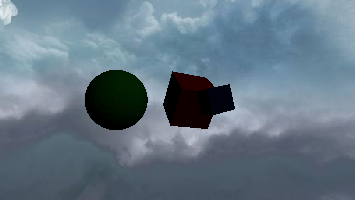
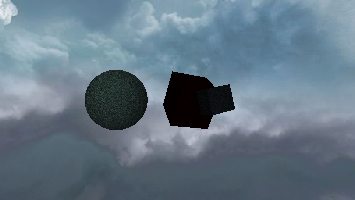
Multiprocessing for pathpracing

Changed region(s): [[0.2169, 0.33, 0.4338, 0.66], [0.4648, 0.36, 0.6197, 0.45]]

diff --git a/src/renders/pathtracing/pathtrace.py b/src/renders/pathtracing/pathtrace.py
@@ -20,6 +20,7 @@ See:
 https://en.wikipedia.org/wiki/Path_tracing
 """
 
+
 def hemisphere_mapping(point: np.array, normal: np.array) -> np.array:
     if np.dot(point, normal) < 0:
         return -point
@@ -39,12 +40,11 @@ def random_three_vector():
     theta = 2 * np.pi * u
     phi = np.arccos(2 * v - 1)
 
-    x = np.sin( theta) * np.cos( phi )
-    y = np.sin( theta) * np.sin( phi )
-    z = np.cos( theta )
+    x = np.sin(theta) * np.cos(phi)
+    y = np.sin(theta) * np.sin(phi)
+    z = np.cos(theta)
 
     return np.array([x, y, z])
-
 
 
 def path_trace(procedure: MainProcedure) -> Bitmap:
@@ -62,26 +62,24 @@ def path_trace(procedure: MainProcedure) -> Bitmap:
     pool = Pool(os.cpu_count())
     tasks = []
     rays = procedure.scene.camera.generate_initial_rays()
-    procedure.free_scene() 
+    procedure.free_scene()
+    np.random.shuffle(rays)
     batches = np.array_split(rays, os.cpu_count())
 
-    for batch in batches:
-        tasks.append(pool.apply_async(trace_ray_task, (batch, procedure)))
-
-    pool.close()
-    pool.join()
-
-    for task in tasks:
-        for ((x,y), color) in task.get():
-            bitmap[y, x] = color
+    with Pool(processes=os.cpu_count()) as pool:
+        tasks = [
+            pool.apply_async(trace_ray_task, (batch, procedure)) for batch in batches
+        ]
+        pool.close()
+        pool.join()
+        for task in tasks:
+            for ((x, y), color) in task.get():
+                bitmap[y, x] = color
 
     return bitmap
 
 
-def trace_ray_task(
-        batch,
-        procedure_template: MainProcedure
-):
+def trace_ray_task(batch, procedure_template: MainProcedure):
     """
     Task executed in Pool.
     """
@@ -109,10 +107,10 @@ def trace_ray_task(
 
 
 def trace_ray(
-        procedure: MainProcedure,
-        ray: Ray,
-        #sampler: RandomSampler, #Wydaje mi się 
-        depth: int = 0,
+    procedure: MainProcedure,
+    ray: Ray,
+    # sampler: RandomSampler, #Wydaje mi się
+    depth: int = 0,
 ) -> np.array:
     """
     Trace ray
@@ -126,9 +124,11 @@ def trace_ray(
         return background(procedure, ray)
 
     new_ray = Ray(
-         origin=hit.coords,
-         direction=hemisphere_mapping(random_three_vector(), hit.normal) #Tu mi się wydaje ze moze blad być
-       )
+        origin=hit.coords,
+        direction=hemisphere_mapping(
+            random_three_vector(), hit.normal
+        ),  # Tu mi się wydaje ze moze blad być
+    )
 
     probability = 1 / (2 * np.pi)
 
@@ -144,10 +144,10 @@ def trace_ray(
     """
     Na wikipedi jest inaczej z tym brdf ?
     """
-    
+
     brdf = (hit_material.diffusion * cos_theta) + (  # diffusion brdf
-            hit_material.reflectance    #reflectance = specular w .dae
-            * (np.dot(ray.direction, new_ray.direction) ** hit_material.shininess)
+        hit_material.reflectance  # reflectance = specular w .dae
+        * (np.dot(ray.direction, new_ray.direction) ** hit_material.shininess)
     )  # reflectance brdf
 
     incoming = trace_ray(procedure, new_ray, depth + 1)
@@ -157,8 +157,8 @@ def trace_ray(
 
 
 def background(
-        procedure: MainProcedure,
-        ray: Ray,
+    procedure: MainProcedure,
+    ray: Ray,
 ) -> np.array:
     """
     Gets environment map value for the ray

diff --git a/src/main.py b/src/main.py
@@ -16,4 +16,5 @@ if __name__ == "__main__":
         samples=samples,
         max_depth=max_depth,
         environment_map=environment_map,
-    ).renderRayTrace(output_file)
+        # ).renderRayTrace(output_file)
+    ).renderPathTrace(output_file)
